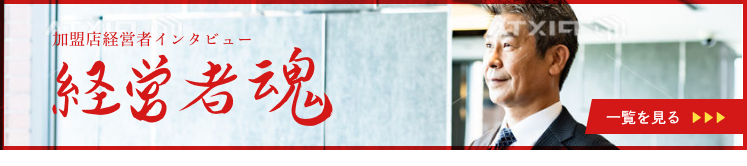
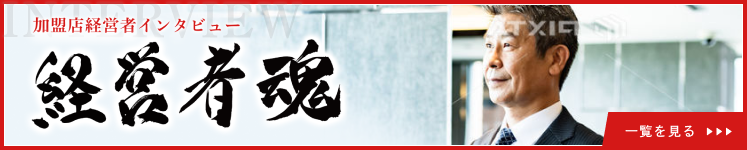
経営者インタビュー見出し周り修正、画像差し替え

diff --git a/index.html b/index.html
@@ -398,10 +398,12 @@
                         </button>
                     </section>
                     <section class="interview section">
-                        <a class="bottom-banner" href="">
-                        <!--aのhrefとimgのaltの設定お願いします-->
-                            <img src="img/bottom-banner.png" alt="">
-                        </a>
+                        <div class="mb-4">
+                            <a class="bottom-banner" href="">
+                            <!--aのhrefとimgのaltの設定お願いします-->
+                                <img src="img/bottom-banner.png" alt="">
+                            </a>
+                        </div>
                         <div class="interview-items is-flex-wrap-wrap tile is-ancestor">
                             <div class="interview-item tile is-3">
                                 <div class="tile is-child box">
